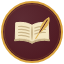
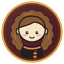
Draw the five character desks as chibi portraits
McGonagall, Harry, Hermione, Ron and Moody become chibi portraits in
one template, drawn from the books' descriptions, on their existing
fields and rings. The PNG exports keep their paths, so anything that
links them picks up the new art.

diff --git a/office/assets/avatars/README.md b/office/assets/avatars/README.md
@@ -1,16 +1,16 @@
 # Hogwarts fleet avatars
 
-Eleven SVG badges, one for each agent desk and script desk, drawn as one matching set. Each has transparent PNG exports at 512, 128 and 64 pixels in `png/<name>-<size>.png`.
+Eleven SVG badges, one for each agent desk and script desk, drawn as one matching set. The five character desks (McGonagall, Harry, Hermione, Ron and Moody) are chibi portraits drawn from the books' descriptions of each character, never from any actor; the other six are emblems. Each has transparent PNG exports at 512, 128 and 64 pixels in `png/<name>-<size>.png`.
 
 Export PNGs with headless Chrome. qlmanage fills the corners with opaque white.
 
 | File | Display name | Job | Emblem | Ring |
 |---|---|---|---|---|
-| mcgonagall.svg | McGonagall - Chief of Staff | Front desk on the frontier tier: writes TASK.md, routes work | Tabby cat head with square spectacles, stern emerald eyes and forehead tufts, on emerald tartan | Claude gold |
-| harry.svg | Harry - Senior Engineer | Builds features and fixes on Codex | Round wire spectacles under a gold lightning bolt, on scarlet | Codex steel blue |
-| hermione.svg | Hermione - Staff Engineer | Reviews Codex-written code and fact-checks bot review comments | Open book with a gold quill across the right page, on oxblood | Claude gold |
-| ron.svg | Ron - Release Engineer | Sorts PR and CI changes, calls reds real or flaky, writes the morning lineup and weekly scoreboard | Staunton chess knight in profile, on Weasley orange | Claude gold |
-| moody.svg | Moody - Security Reviewer | Read-only Codex review of Claude-written code, security first | Battered riveted pewter magical eye glancing aside, on a leather strap, on dark slate | Codex steel blue |
+| mcgonagall.svg | McGonagall - Chief of Staff | Front desk on the frontier tier: writes TASK.md, routes work | Chibi portrait: tall pointed black hat with an emerald band, grey hair in a side bun, square spectacles, a stern straight mouth, emerald robe, on emerald | Claude gold |
+| harry.svg | Harry - Senior Engineer | Builds features and fixes on Codex | Chibi portrait: messy black hair, round spectacles, green eyes, a lightning-bolt scar, black robe and a maroon and gold scarf, on scarlet | Codex steel blue |
+| hermione.svg | Hermione - Staff Engineer | Reviews Codex-written code and fact-checks bot review comments | Chibi portrait: big bushy brown curls, brown eyes, rosy cheeks, black robe and a maroon and gold scarf, on oxblood | Claude gold |
+| ron.svg | Ron - Release Engineer | Sorts PR and CI changes, calls reds real or flaky, writes the morning lineup and weekly scoreboard | Chibi portrait: bright orange hair with a cowlick, blue eyes, freckles, black robe and a maroon and gold scarf, on Weasley orange | Claude gold |
+| moody.svg | Moody - Security Reviewer | Read-only Codex review of Claude-written code, security first | Chibi portrait: long grizzled grey hair, a scarred face, one dark eye and a large blue magical eye in a brass rim on a leather strap, a frown, a brown traveling cloak, on dark slate | Codex steel blue |
 | snape.svg | Snape - Data Analyst | Read-only warehouse and observability reads with provenance | Corked Erlenmeyer flask two thirds full of green potion, on near-black with a green glow | Claude gold |
 | portrait.svg | Dumbledore - Knowledge Manager | Weeknight review of the day that proposes memory changes | Gilded frame holding half-moon spectacles and a crescent moon, on a starry indigo field | Claude gold |
 | map.svg | Marauder's Map - PR Watcher | Zero-token script that diffs PR and CI state | Two pairs of footprints on a dashed trail with a faint compass rose, on parchment | Script pewter |
@@ -24,4 +24,5 @@ Export PNGs with headless Chrome. qlmanage fills the corners with opaque white.
 2. Identical chrome: field `r=240` filled by radial gradient `field` (userSpaceOnUse, cx 176, cy 156, r 360, 8% white mix to base), then outer ring `r=240` at 16px and hairline `r=222` at 3px and 0.45, drawn last in the family colour (Claude `#D9A441`, Codex `#6F93D6`, script `#9AA0A6`).
 3. Everything inside the field sits in `<g clip-path="url(#inner)">`, with `<clipPath id="inner"><circle cx="256" cy="256" r="222" fill="#FFFFFF"/></clipPath>`.
 4. One emblem in a 300x300 box with its mass centroid within about 12px of 256,256: parchment `#F3E6C4` ink, `#C9B48A` shadow (`#A97D2C` on gilt), at most one character accent, 5 to 8 colours in total.
-5. Strokes 16px primary and 8 to 9px detail with round caps and joins, nothing under 8px, overlaps separated with the field gradient rather than dark halos, and original iconography only: no crests, logos, faces, film fonts, letters or numbers.
+5. Strokes 16px primary and 8 to 9px detail with round caps and joins, nothing under 8px, overlaps separated with the field gradient rather than dark halos, and original iconography only: no crests, logos, film fonts, letters or numbers, and no faces on the emblem badges.
+6. Character portraits follow one chibi template: a big head (`rx 108`, `ry 100` at 256,236) with ears, a small robed body, dot eyes with a white glint, and a 10px `#231F20` outline with round joins on every shape. Hair, spectacles and the one signature detail (a scar, a magical eye, a hat) come from the books' descriptions, never an actor's likeness.
